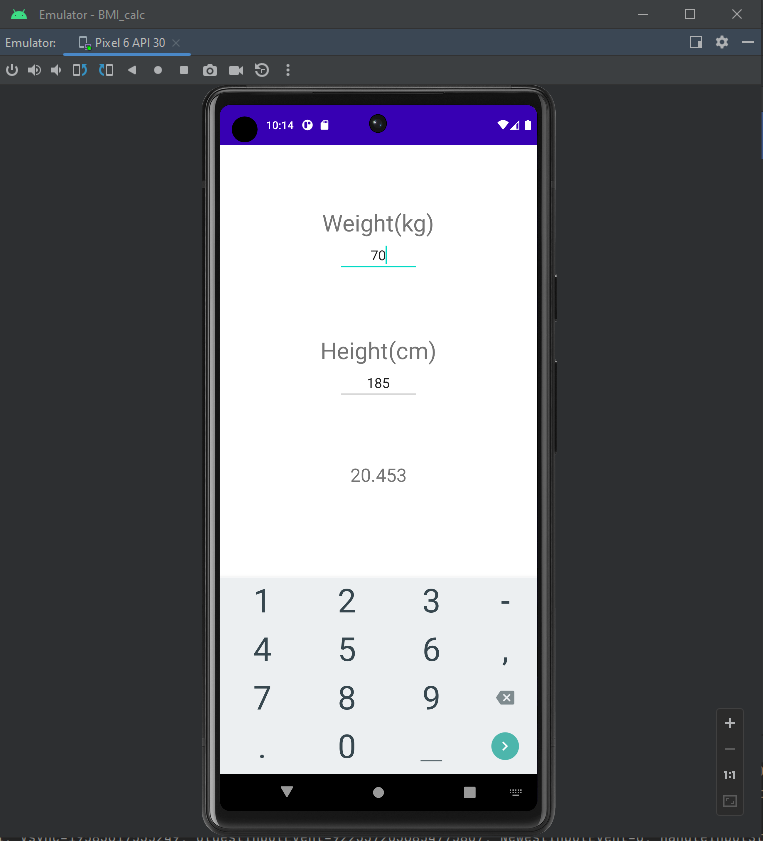
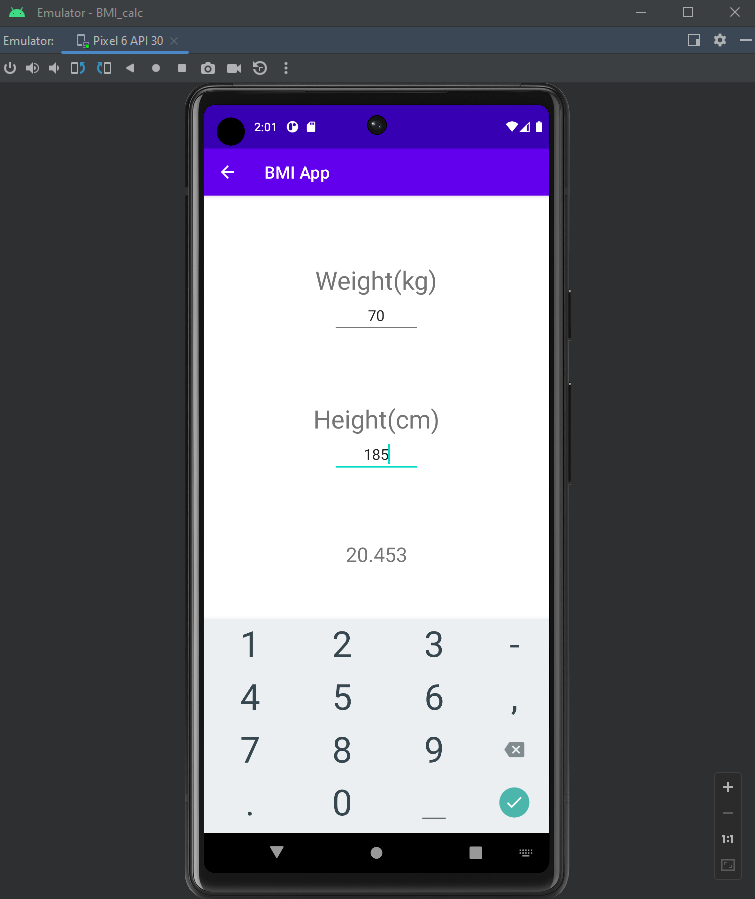
Added button for Recipes, Added activity and layout for showing list of recipes, Added activity and layout for showing chosen recipe

diff --git a/app/src/main/java/com/example/bmi_calc/Recipes.java b/app/src/main/java/com/example/bmi_calc/Recipes.java
@@ -1,0 +1,59 @@
+package com.example.bmi_calc;
+
+import androidx.appcompat.app.AppCompatActivity;
+
+import android.content.Intent;
+import android.os.Bundle;
+import android.text.TextUtils;
+import android.view.View;
+import android.widget.AdapterView;
+import android.widget.ArrayAdapter;
+import android.widget.ListView;
+
+import java.util.HashMap;
+import java.util.Map;
+
+public class Recipes extends AppCompatActivity {
+
+    private String[] recipeNames;
+    private Map<String, String[]> recipeMap;
+
+    @Override
+    protected void onCreate(Bundle savedInstanceState) {
+        super.onCreate(savedInstanceState);
+        setContentView(R.layout.activity_recipes);
+
+        // Get the recipe names and their corresponding ingredients and directions from the string resources
+        recipeNames = getResources().getStringArray(R.array.list_of_recipes);
+        String[] ingredients = getResources().getStringArray(R.array.recipe_ingredients);
+        String[] directions = getResources().getStringArray(R.array.recipe_directions);
+
+        // Create a map that links each recipe name to its corresponding ingredients and directions
+        recipeMap = new HashMap<>();
+        for (int i = 0; i < recipeNames.length; i++) {
+            String recipeName = recipeNames[i];
+            String[] recipeIngredients = ingredients[i].split("\\r?\\n");
+            String[] recipeDirections = directions[i].split("\\r?\\n");
+            recipeMap.put(recipeName, new String[]{TextUtils.join("\n", recipeIngredients), TextUtils.join("\n", recipeDirections)});
+        }
+
+        // Set up the ListView to display the recipe names
+        ArrayAdapter<String> adapter = new ArrayAdapter<>(this, android.R.layout.simple_list_item_1, recipeNames);
+        ListView listView = findViewById(R.id.ListView_recipes);
+        listView.setAdapter(adapter);
+
+        // Set an item click listener for the ListView to launch the Recipe activity and pass the selected recipe's ingredients and directions
+        listView.setOnItemClickListener(new AdapterView.OnItemClickListener() {
+            @Override
+            public void onItemClick(AdapterView<?> parent, View view, int position, long id) {
+                String recipeName = recipeNames[position];
+                String[] recipeData = recipeMap.get(recipeName);
+                Intent intent = new Intent(Recipes.this, Recipe.class);
+                intent.putExtra("recipe_name", recipeName);
+                intent.putExtra("recipe_ingredients", recipeData[0]);
+                intent.putExtra("recipe_directions", recipeData[1]);
+                startActivity(intent);
+            }
+        });
+    }
+}

diff --git a/app/src/main/java/com/example/bmi_calc/Recipe.java b/app/src/main/java/com/example/bmi_calc/Recipe.java
@@ -1,0 +1,38 @@
+package com.example.bmi_calc;
+
+import androidx.appcompat.app.AppCompatActivity;
+
+import android.annotation.SuppressLint;
+import android.content.Intent;
+import android.os.Bundle;
+import android.widget.TextView;
+
+public class Recipe extends AppCompatActivity {
+
+    private TextView recipeNameTextView;
+    private TextView ingredientsTextView;
+    private TextView directionsTextView;
+
+    @Override
+    protected void onCreate(Bundle savedInstanceState) {
+        super.onCreate(savedInstanceState);
+        setContentView(R.layout.activity_recipe);
+
+        // Get the recipe name, ingredients, and directions from the intent extras
+        Intent intent = getIntent();
+        String recipeName = intent.getStringExtra("recipe_name");
+        String ingredients = intent.getStringExtra("recipe_ingredients");
+        String directions = intent.getStringExtra("recipe_directions");
+
+        // Set up the TextViews to display the recipe name, ingredients, and directions
+        recipeNameTextView = findViewById(R.id.textView_recipe_name);
+        recipeNameTextView.setText(recipeName);
+
+        ingredientsTextView = findViewById(R.id.textView_recipe_ingredients);
+        ingredientsTextView.setText(ingredients);
+
+        directionsTextView = findViewById(R.id.textView_recipe_directions);
+        directionsTextView.setText(directions);
+    }
+}
+

diff --git a/app/src/main/java/com/example/bmi_calc/Buttons.java b/app/src/main/java/com/example/bmi_calc/Buttons.java
@@ -10,6 +10,7 @@ public class Buttons extends AppCompatActivity {
 
     private Button bmi_move;
     private Button cls_move;
+    private Button rcp_move;
 
 
     @Override
@@ -18,12 +19,17 @@ public class Buttons extends AppCompatActivity {
         setContentView(R.layout.activity_buttons);
         bmi_move = findViewById(R.id.button_BMI_Calculator);
         cls_move = findViewById(R.id.button_Cls_Calculator);
+        rcp_move = findViewById(R.id.button_Recipes);
         bmi_move.setOnClickListener(view -> {
             Intent intent = new Intent(Buttons.this, BMI_Calculator.class);
             startActivity(intent);
         });
         cls_move.setOnClickListener(view -> {
             Intent intent = new Intent(Buttons.this, Cals_Calculator.class);
+            startActivity(intent);
+        });
+        rcp_move.setOnClickListener(view -> {
+            Intent intent = new Intent(Buttons.this, Recipes.class);
             startActivity(intent);
         });
     }

diff --git a/app/src/main/java/com/example/bmi_calc/BMI_Calculator.java b/app/src/main/java/com/example/bmi_calc/BMI_Calculator.java
@@ -22,7 +22,7 @@ public class BMI_Calculator extends AppCompatActivity {
 
     protected void onCreate(Bundle savedInstanceState){
         super.onCreate(savedInstanceState);
-        setContentView(R.layout.activity_main);
+        setContentView(R.layout.activity_bmi_calculator);
 
         weightEditText = (EditText) findViewById(R.id.editText_weight);
         heightEditText = (EditText) findViewById(R.id.editText_height);
